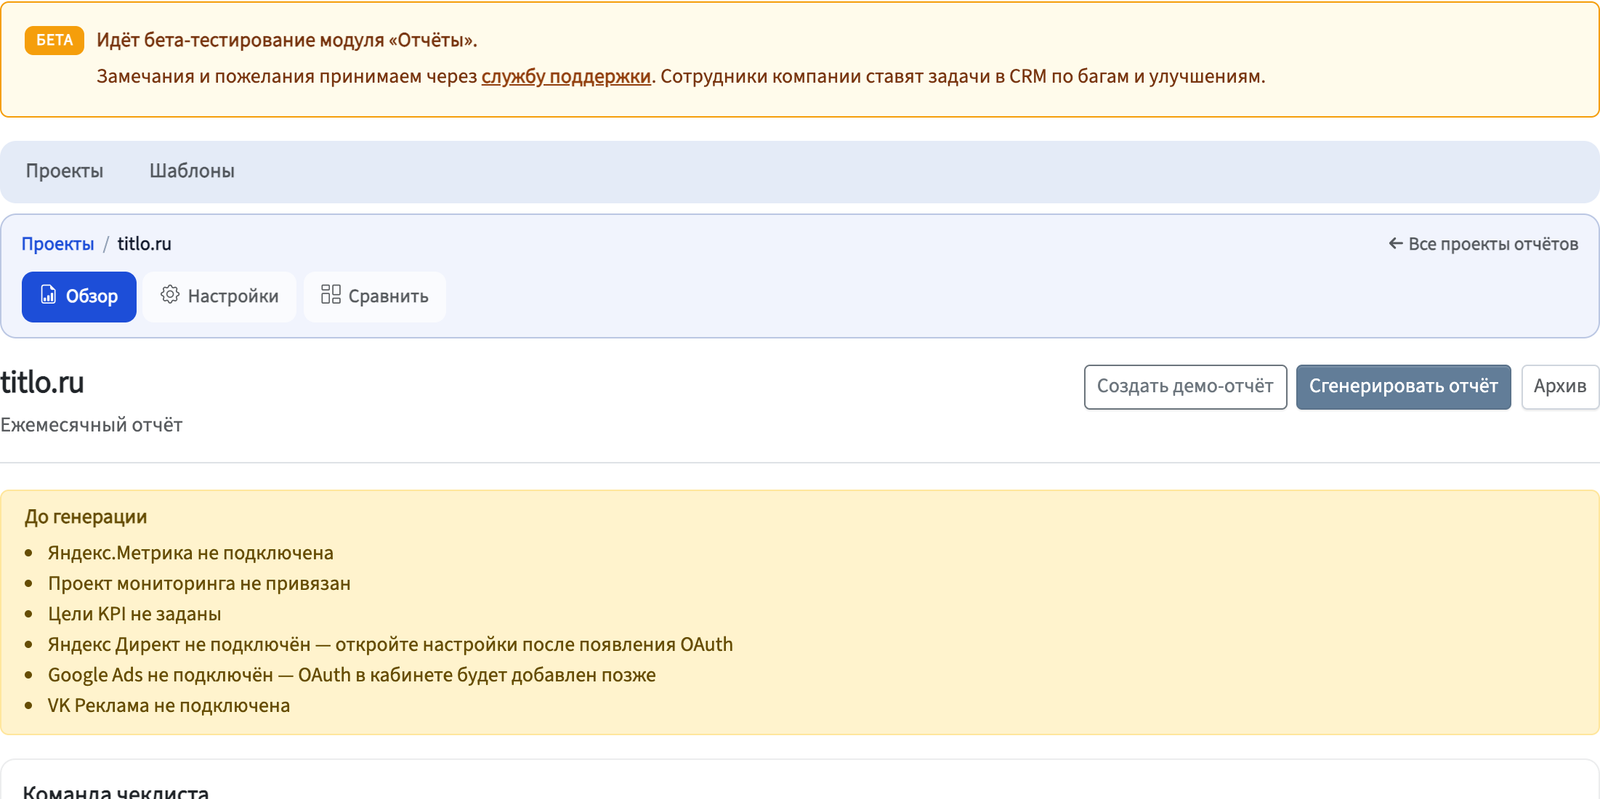
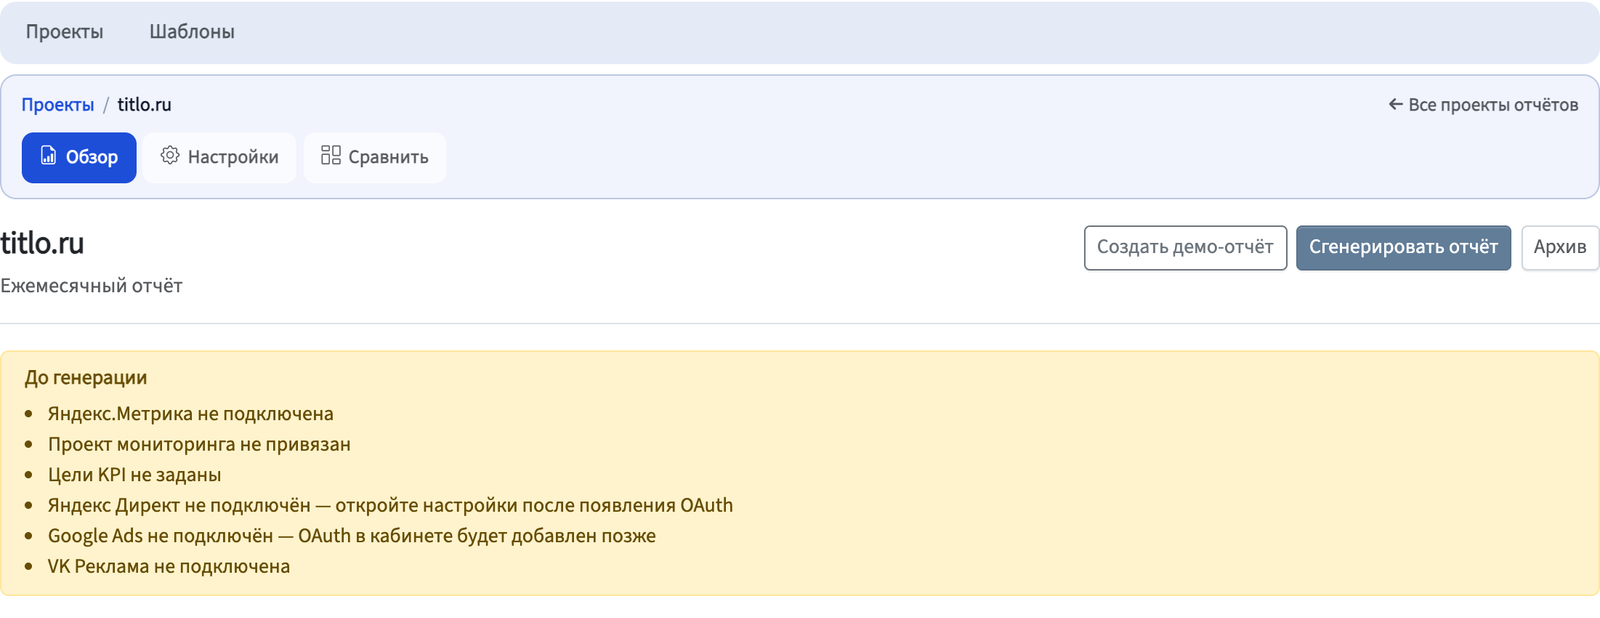
fix(site): скрин сбора отчёта без плашки беты и без обрезки

Changed region(s): [[0.0, 0.0, 1.0, 0.5227], [0.0, 0.5227, 1.0, 1.0], [0.1875, 0.3382, 0.2188, 0.3689]]

diff --git a/components/module-landings/monitoring-v2/MonitoringV2StoryActs.tsx b/components/module-landings/monitoring-v2/MonitoringV2StoryActs.tsx
@@ -39,7 +39,8 @@ function actImageClass(image: string) {
     image.includes("cluster-shot") ||
     image.includes("meta-tags-shot") ||
     image.includes("monitoring-v2-shot") ||
-    image.includes("wordstat-shot")
+    image.includes("wordstat-shot") ||
+    image.includes("reports-shot")
   )
     return "";
   return "aspect-[739/385] min-h-[240px]";
@@ -66,7 +67,8 @@ function isCabinetShot(image: string) {
     image.includes("cluster-shot") ||
     image.includes("meta-tags-shot") ||
     image.includes("monitoring-v2-shot") ||
-    image.includes("wordstat-shot")
+    image.includes("wordstat-shot") ||
+    image.includes("reports-shot")
   );
 }
 
